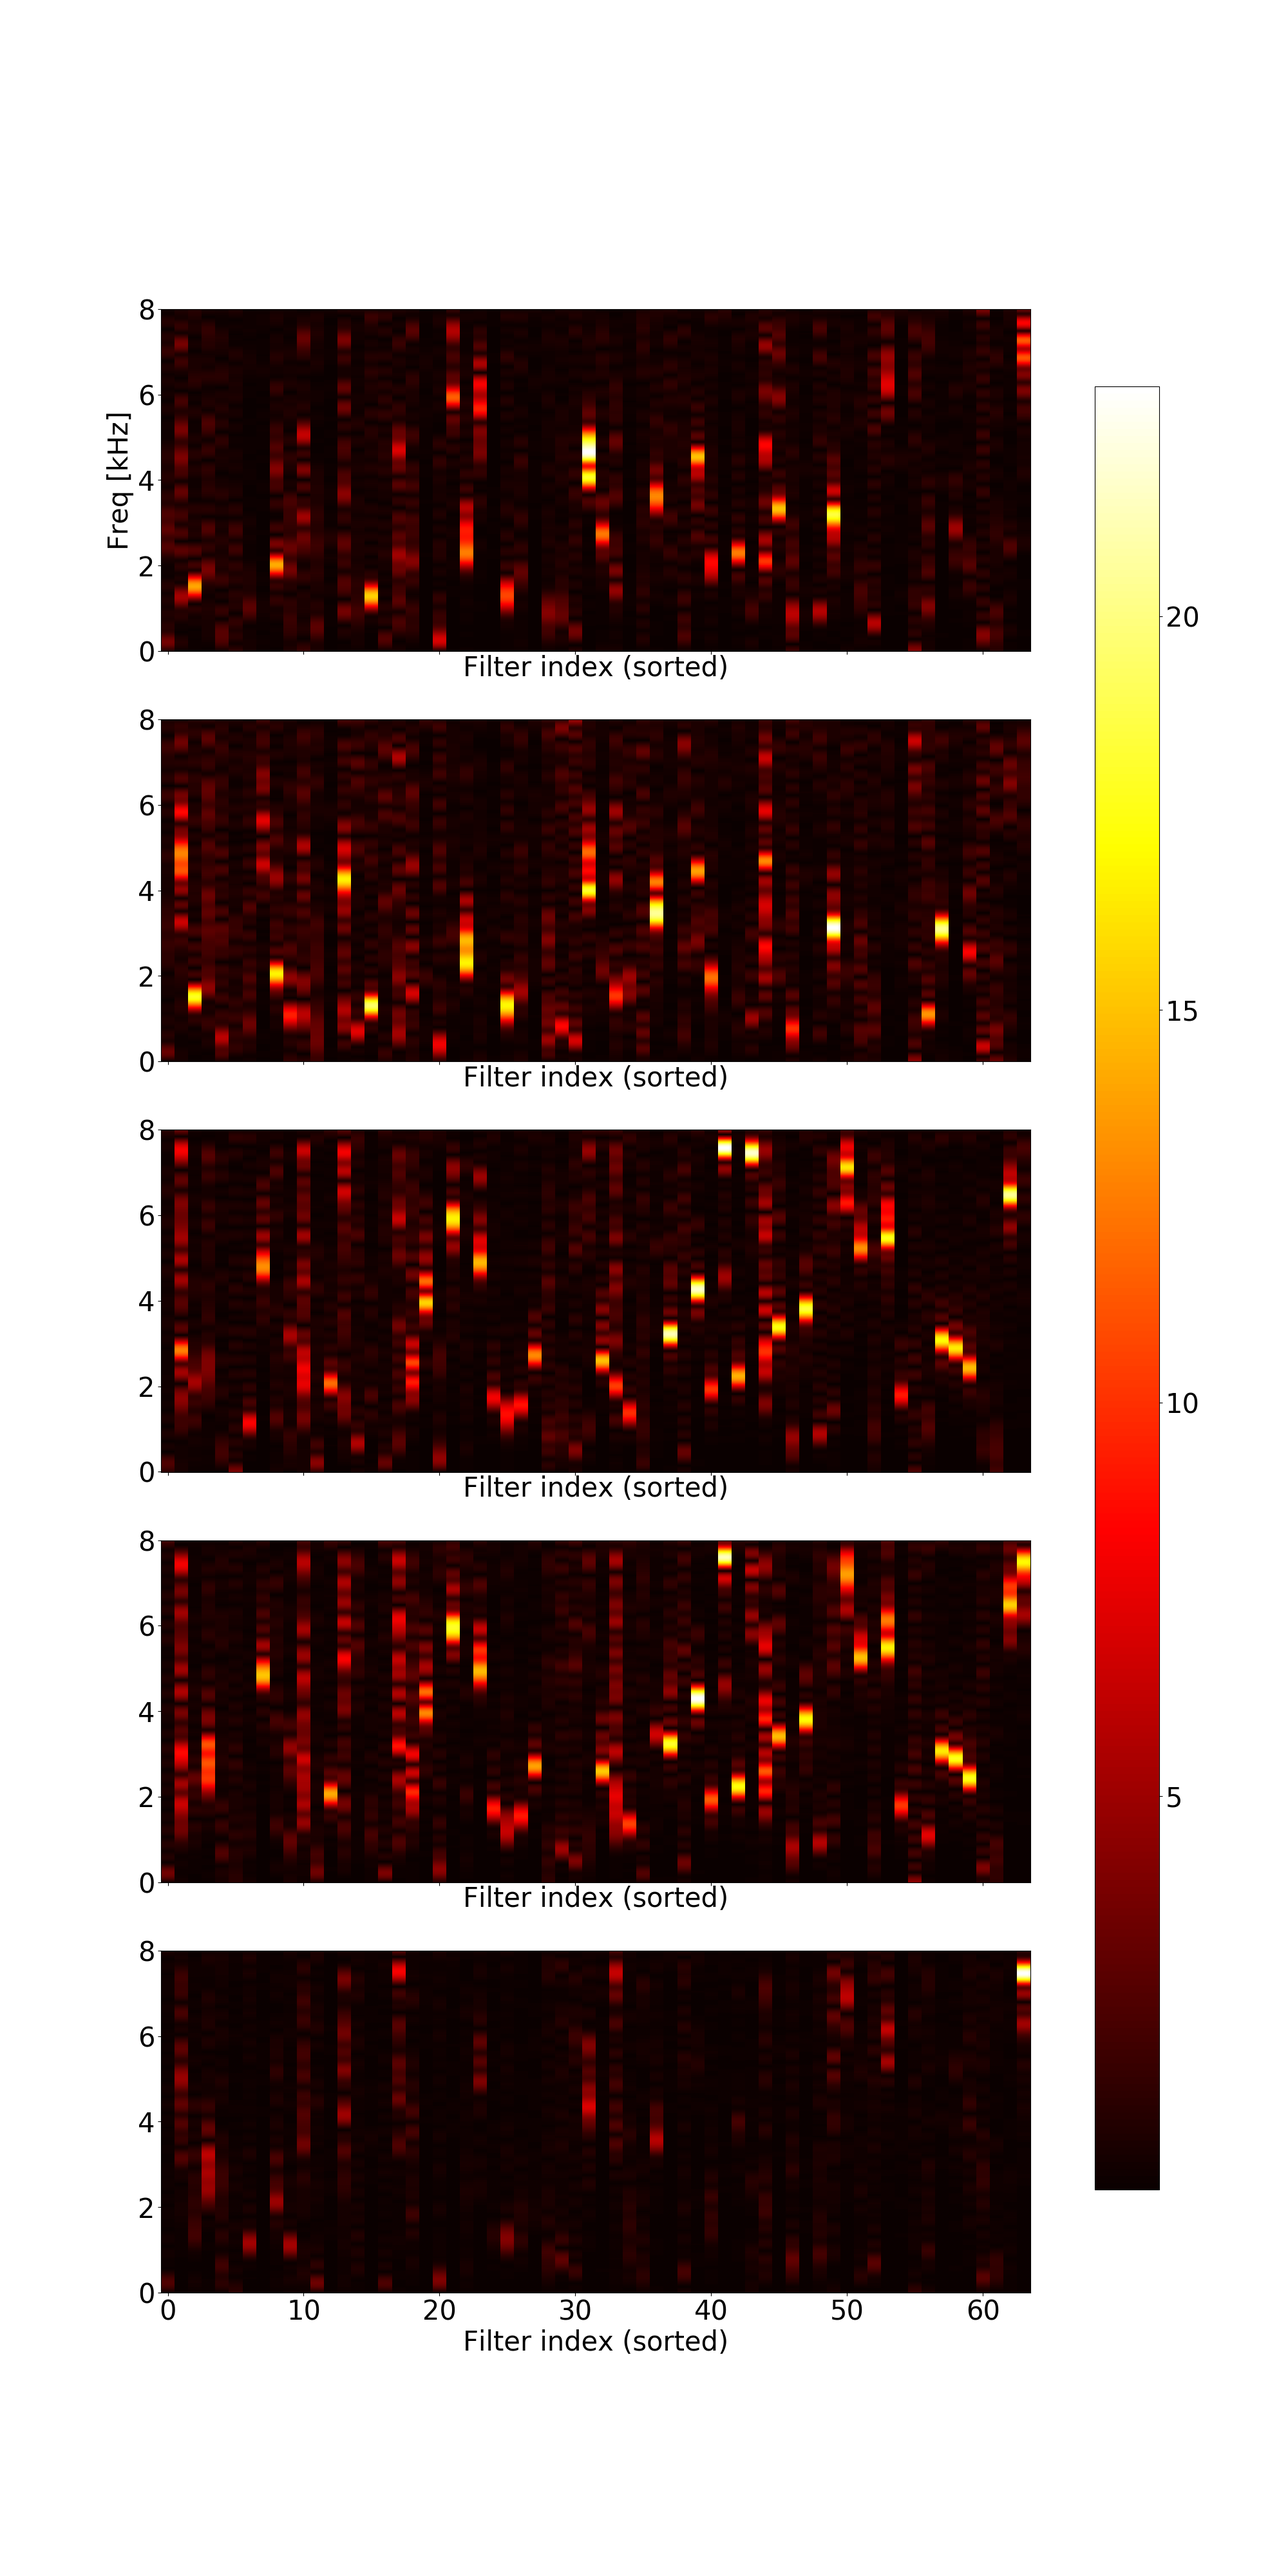
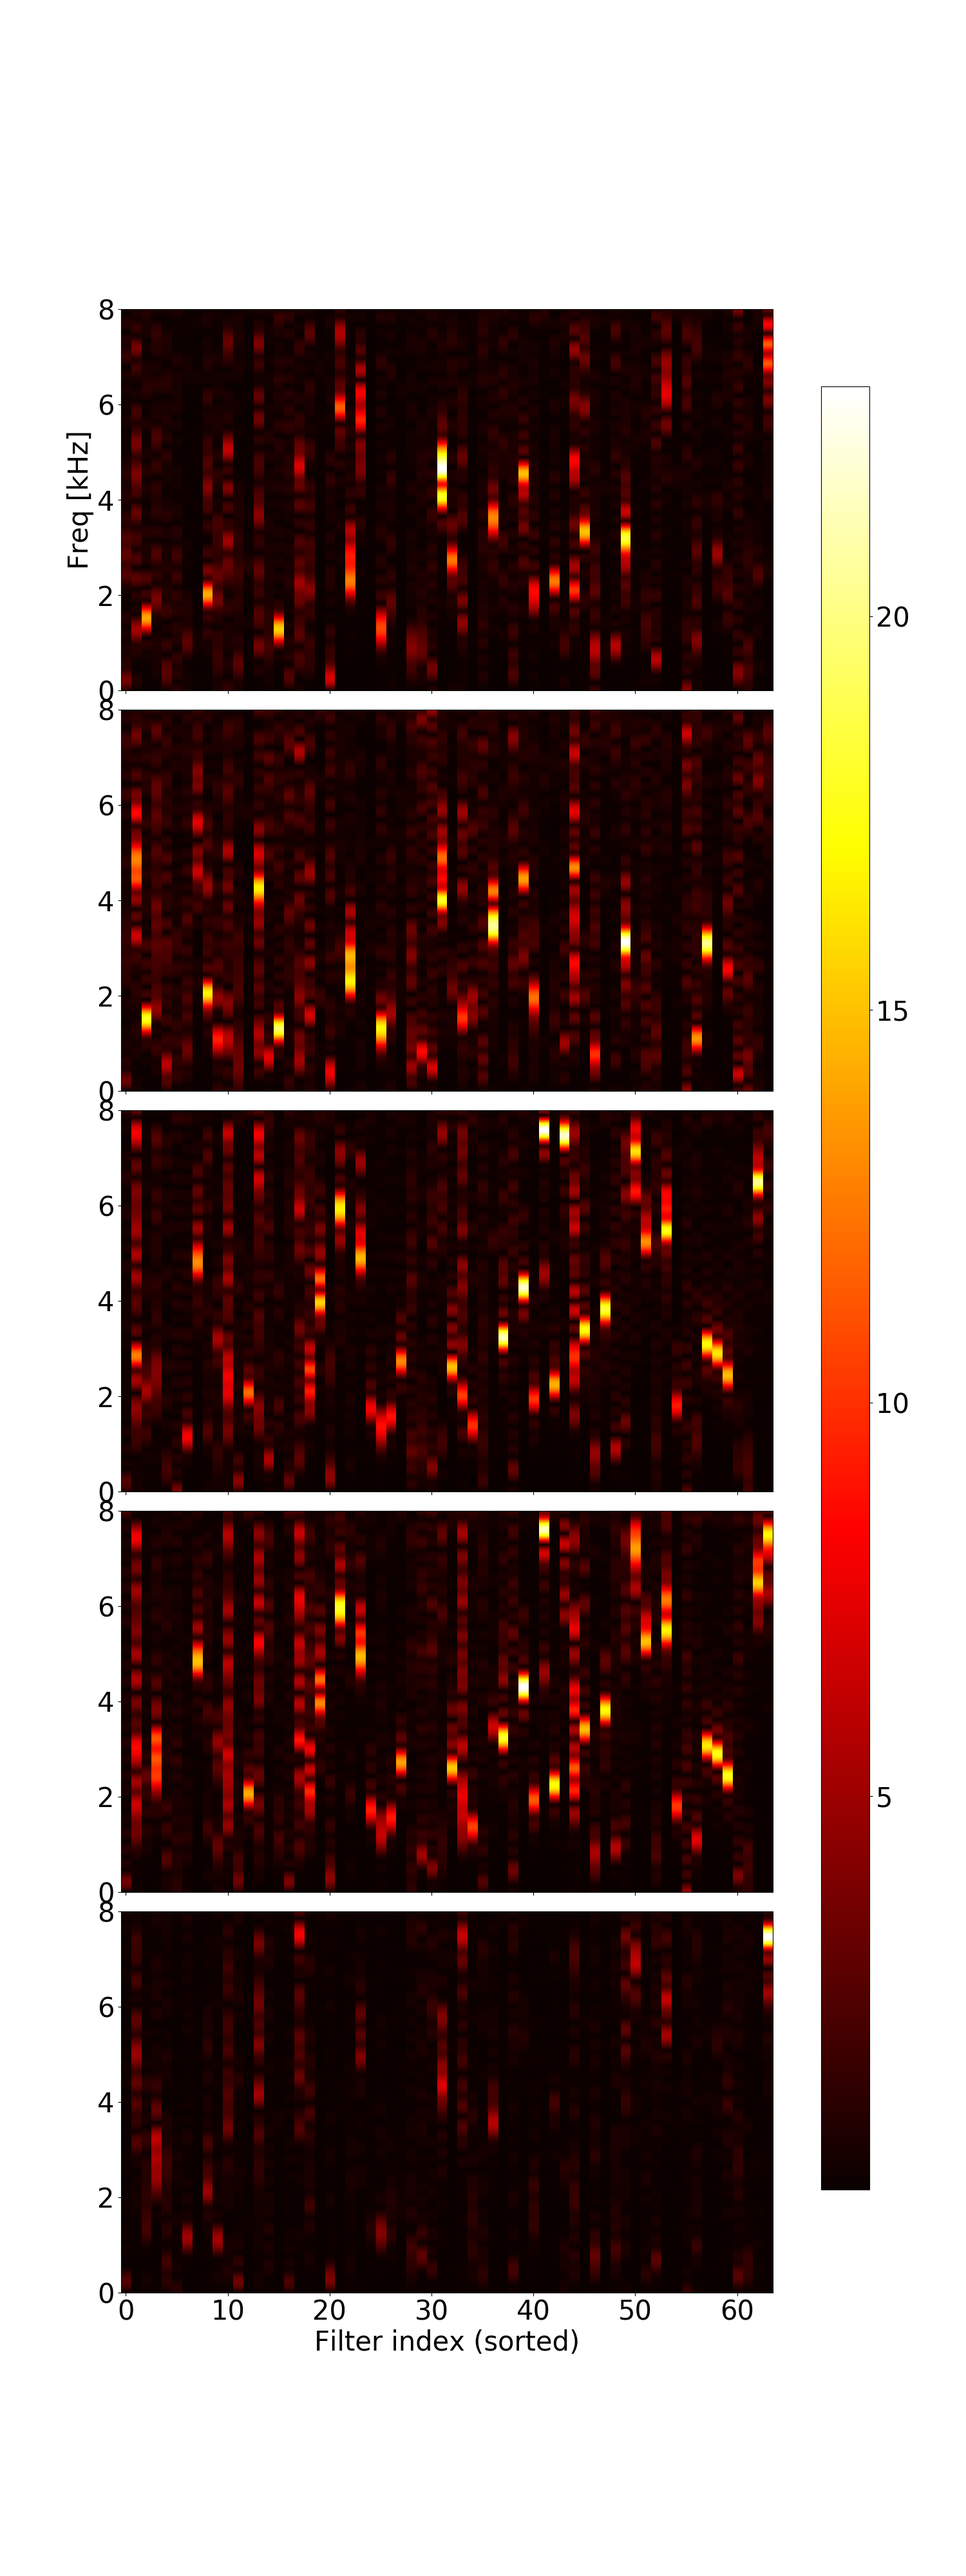
up

diff --git a/returnnTfNetworkLayerPlotter.py b/returnnTfNetworkLayerPlotter.py
@@ -529,10 +529,10 @@ class Plotter(object):
                 axs[dimInputIdx][epochRangeIdx].yaxis.set_major_formatter(plt.FuncFormatter(format_func))
                 axs[0][epochRangeIdx].set_ylabel('Freq [kHz]')
 #                axs[dimInputIdx][epochRangeIdx].set_ylabel(self.layer.domain + '_for_channel_' + str(dimInputIdx))
-                axs[dimInputIdx][epochRangeIdx].set_xlabel('Filter index (sorted)')
+            axs[-1][epochRangeIdx].set_xlabel('Filter index (sorted)')
 #                axs[dimInputIdx][epochRangeIdx].set_xlabel('filterIdx_' + mode + '_for epoch' + '_' + '%03d' % (self.epochRangeToPlot[epochRangeIdx],))
 
-        fig.subplots_adjust(hspace=0.2)
+        fig.subplots_adjust(hspace=0.05)
         fig.subplots_adjust(right=0.8)
         plt.setp([a.get_xticklabels() for a in fig.axes[:-1]], visible=False)
 
